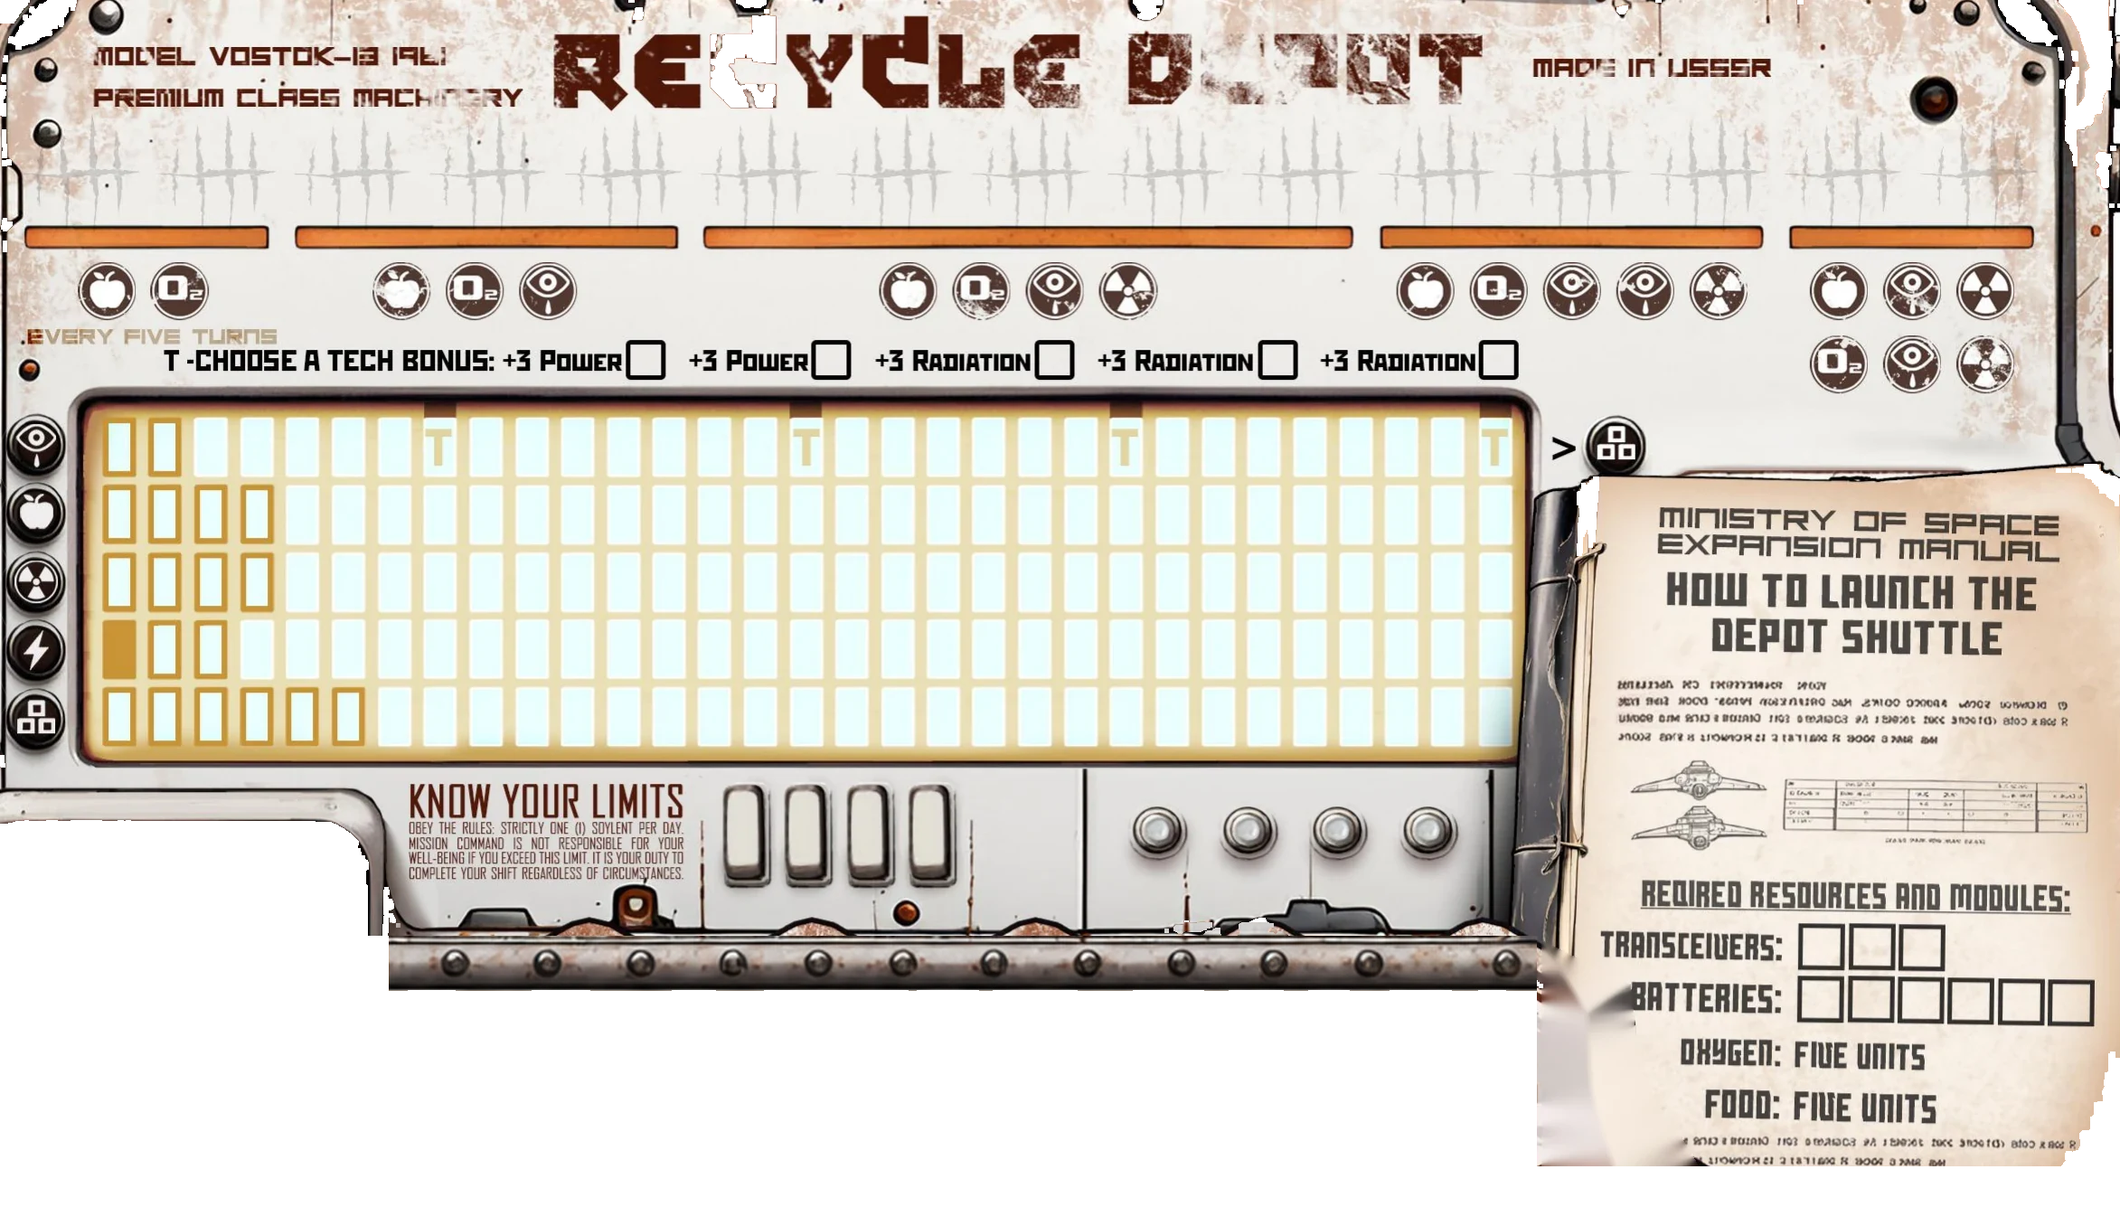
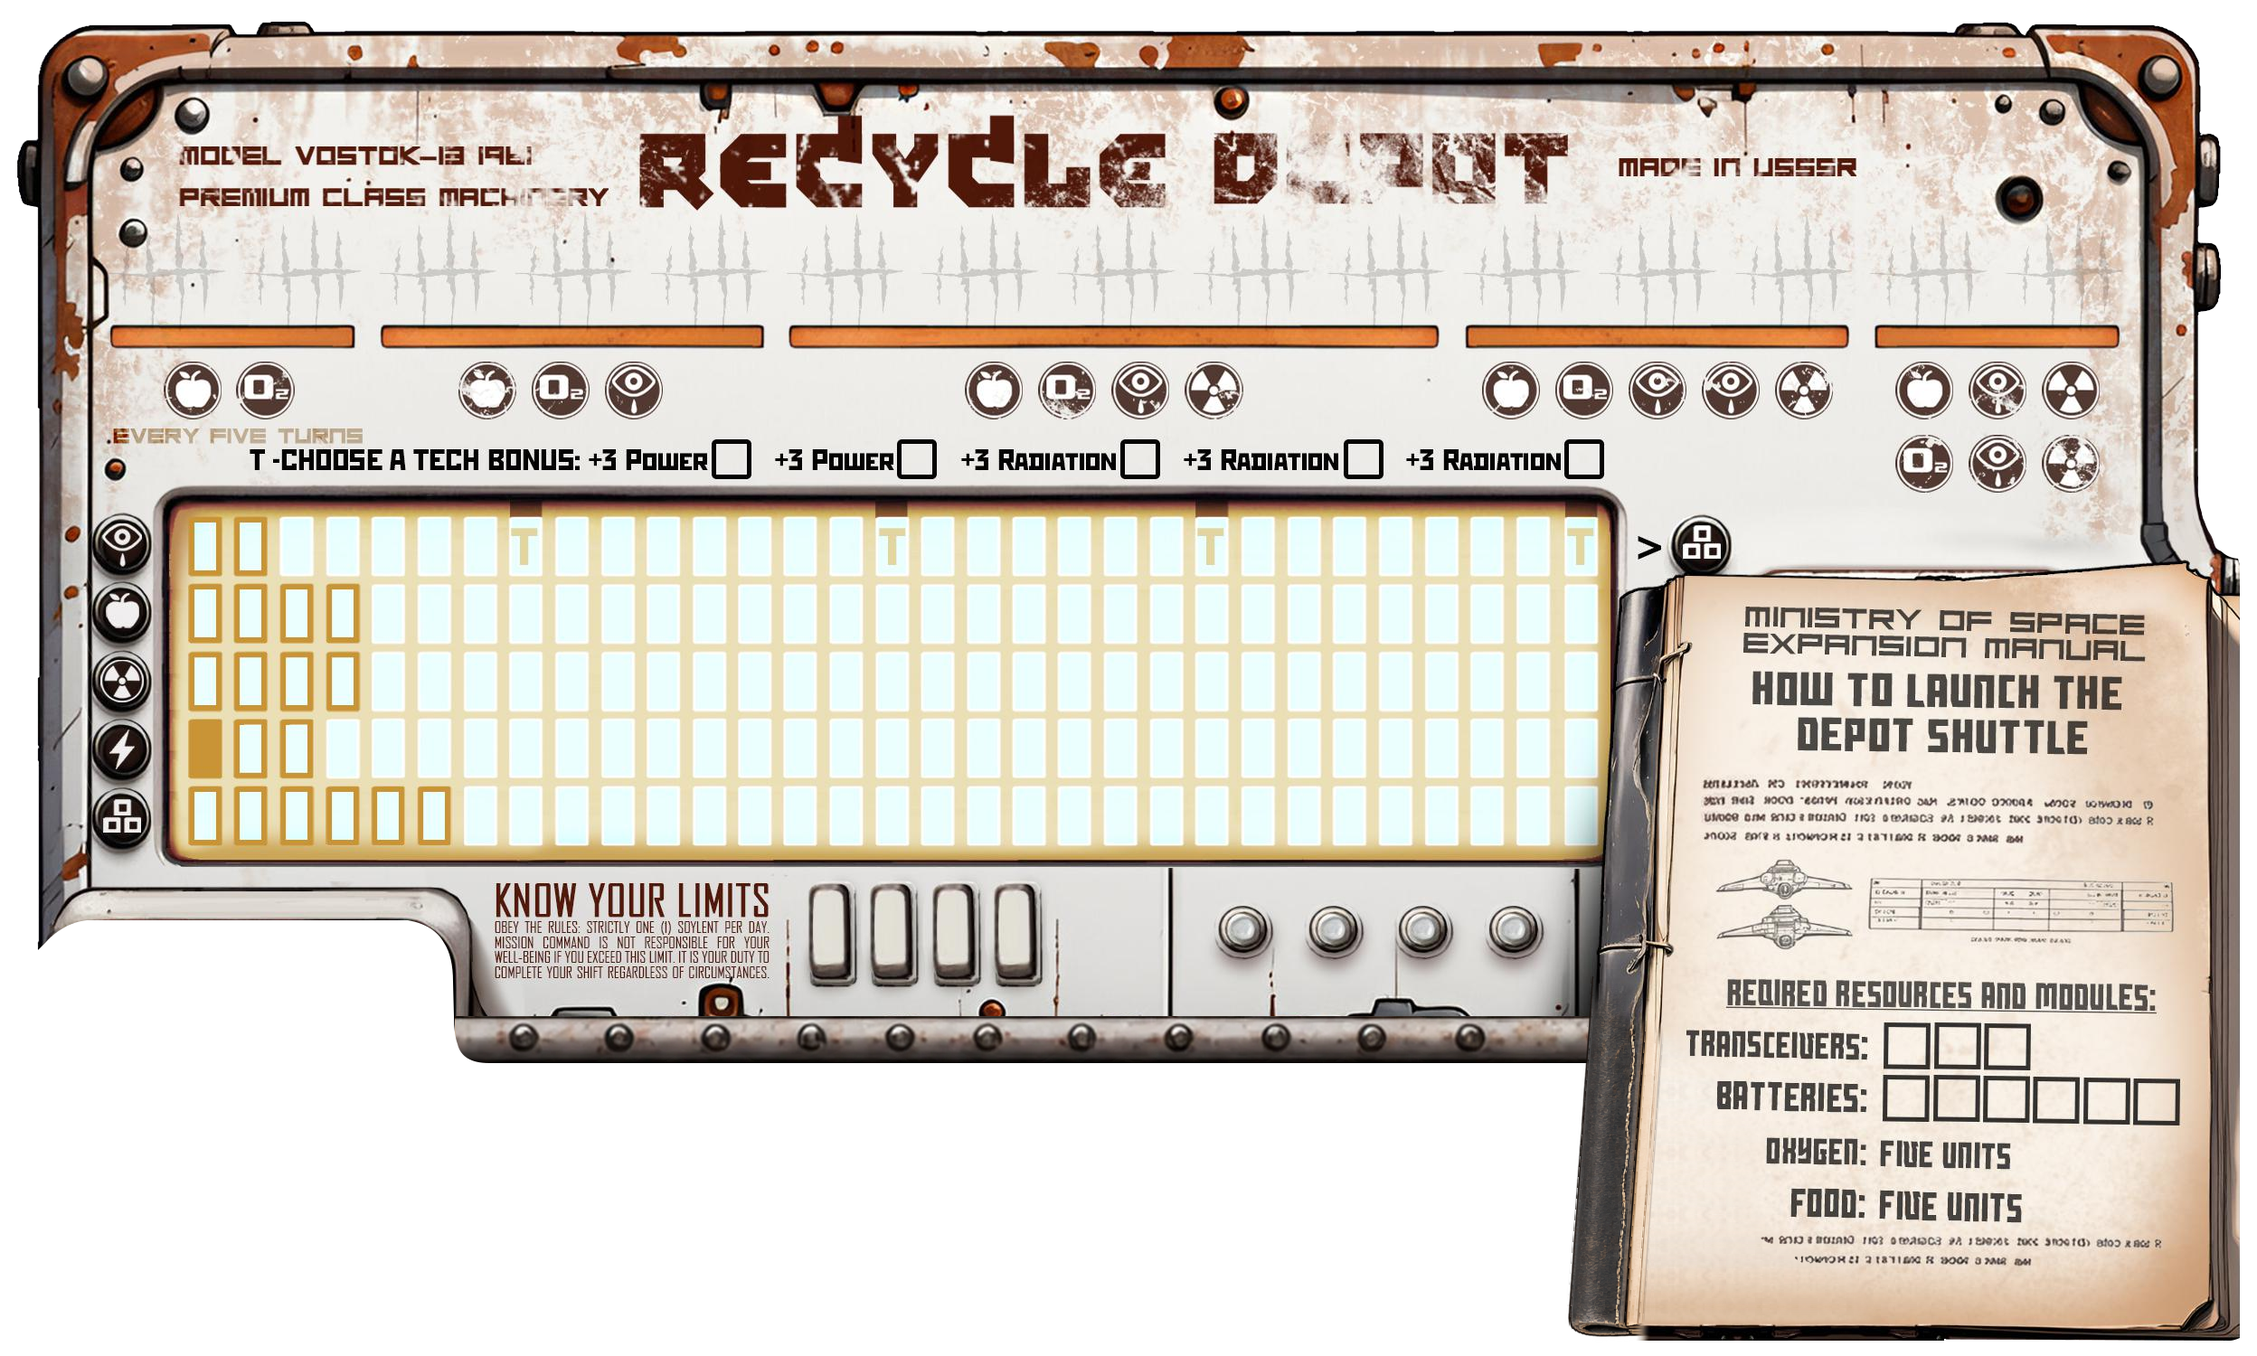
Restore the Recycled Depot frame and launch manual from the print sheet

diff --git a/games/recycled/src/styles.css b/games/recycled/src/styles.css
@@ -1469,13 +1469,27 @@ button.die {
   z-index: 2;
 }
 .modal.depot-zoomed {
+  display: grid;
+  grid-template-rows: auto minmax(0, 1fr);
   max-width: min(96vw, 1500px);
 }
 .modal.depot-zoomed .depot {
+  display: grid;
+  min-height: 0;
   border: none;
   box-shadow: none;
   padding: 0;
   background: none;
+}
+
+.modal.depot-zoomed .depot-art-wrap {
+  display: grid;
+  grid-template-rows: minmax(0, 1fr) auto;
+  min-height: 0;
+}
+.modal.depot-zoomed .depot-art {
+  min-height: 0;
+  max-height: 100%;
 }
 
 /* The playtester's strip in the top bar: see src/ui/playtest.ts. Loud on purpose - a playtest and

diff --git a/games/recycled/tools/close_depot.py b/games/recycled/tools/close_depot.py
@@ -1,145 +1,47 @@
-"""Give the Depot console the bottom edge the printed sheet never shows.
+"""Rebuild the registered Planet 1 Depot from its original embedded print image.
 
-    python3 tools/close_depot.py           # add the lip, if it isn't there yet
-    python3 tools/close_depot.py --force   # ask the model again (deletes the cached fill)
-
-On Sheet 1 the hex board is printed over the console's lower body, so there is no bottom edge to
-extract: `extract_art.py` cuts along the board and the console ends in a flat slice. The Game
-Director asked for exactly this to be filled in - "you could just ask OpenAI to fill in the parts
-covered with hexes".
-
-**This is the one reconstructed part of the Depot.** The model draws only inside a band below the
-printed console; every pixel the publisher printed is composited back over the result and the run
-refuses to write if one of them moved. Nothing here invents a control, a number or a word: the band
-is plain lower casing.
-
-Run it after `extract_art.py`, which overwrites `depot.webp` with the sliced version. The model's
-fill is cached, so a re-run costs nothing.
-
-Needs Pillow, numpy and an OpenAI key in ~/.openai-token. The call goes through scripts/art.mjs.
+Run close_depot.py [SHEET1_PLANET1.pdf]. The outline, repaired manual corner and
+lower rail are the approved art masters. Rebuilding needs Pillow and Poppler's
+pdfimages. All positions are in native Sheet 1 pixels.
 """
 from __future__ import annotations
 
-import subprocess
-import sys
-import tempfile
+import argparse
+import json
 from pathlib import Path
+import subprocess
+import tempfile
 
-import numpy as np
 from PIL import Image
 
-GAME = Path(__file__).resolve().parent.parent
-ART = GAME / 'src/assets/art'
-CLIENT = GAME.parent.parent / 'scripts/art.mjs'
-CACHE = GAME.parent.parent / '.screens/art/depot-lip.png'
-
-# The console's own width, and the band of the image it may be extended into. The console is cut
-# off at about y=1034 and `depot.webp` is 1335 tall, so the room is already in the frame.
-SPLIT_X = 1700
-BAND_TOP, BAND_BOTTOM = 1020, 1165
-# Left of this the console has its own printed bottom corner, higher up, and the sheet continues
-# into a control panel that is not part of this crop. The lip starts where the flat cut starts.
-BAND_LEFT = 430
-# The edit is sent square so the model returns the same framing, and at the API's own size.
-SIDE = 1024
-
-PROMPT = (
-    'This is a retro Soviet-style control console, photographed flat, with its lower edge missing: '
-    'the image simply stops part-way down and everything below is transparent. '
-    'Draw the bottom of the console, and nothing else. Continue the panels, seams and rusted '
-    'off-white painted metal straight down for a short distance and close them with the console\'s '
-    'own bottom lip - a darker rolled edge with a line of rivets, in the same lighting, the same '
-    'palette and the same hand-painted comic style, with the same wear and rust streaks. '
-    'Do not change one pixel of the console above. Do not add dials, switches, screens, labels, '
-    'legs, shadows or any text or numbers whatsoever. Everything outside the console stays fully '
-    'transparent.'
-)
+GAME = Path(__file__).resolve().parents[1]
+MASTERS = GAME / "tools/depot"
+DEFAULT_SHEET = GAME.parents[1] / "sources/recycled/EN A4 Sheet1 Planet1-compressed.pdf"
+REPAIR_ORIGIN = (503, 1080)
 
 
-def already_closed(alpha: np.ndarray) -> bool:
-    """A lip has been added if the console's left half reaches below the printed cut."""
-    return bool(alpha[BAND_TOP + 30 : BAND_BOTTOM, :SPLIT_X].any())
+def restore_depot(pdf: Path, output: Path) -> None:
+    with tempfile.TemporaryDirectory() as folder:
+        prefix = Path(folder) / "sheet"
+        subprocess.run(["pdfimages", "-f", "1", "-l", "1", "-j", str(pdf), str(prefix)], check=True)
+        with Image.open(prefix.with_name("sheet-000.jpg")) as page:
+            if page.size != (2480, 3508):
+                raise ValueError(f"Expected a 2480 × 3508 Planet 1 sheet, got {page.size}")
+            with Image.open(MASTERS / "outline.png") as outline:
+                image = page.convert("RGB").crop((0, 0, *outline.size))
+                with Image.open(MASTERS / "lower-repair.webp") as patch:
+                    patch = patch.convert("RGBA")
+                    image.paste(patch, REPAIR_ORIGIN, patch.getchannel("A"))
+                image.putalpha(outline.convert("L"))
+    output.mkdir(parents=True, exist_ok=True)
+    image.save(output / "depot.webp", lossless=True, method=6)
+    geometry = dict(x0=0, y0=0, width=image.width, height=image.height)
+    (output / "depot.json").write_text(json.dumps(geometry) + "\n")
 
 
-def ask(src: Path, mask: Path, out: Path) -> subprocess.CompletedProcess:
-    return subprocess.run(
-        ['node', str(CLIENT), 'edit', '--quality', 'high', '--size', f'{SIDE}x{SIDE}',
-         '--background', 'transparent', '--image', str(src), '--mask', str(mask),
-         '--out', str(out), '--prompt', PROMPT],
-        capture_output=True, text=True,
-    )
-
-
-def main() -> None:
-    force = '--force' in sys.argv
-    depot = Image.open(ART / 'depot.webp').convert('RGBA')
-    arr = np.array(depot)
-    if already_closed(arr[:, :, 3] > 10) and not force:
-        print('depot.webp already has its lower edge; --force to ask again')
-        return
-    if force:
-        CACHE.unlink(missing_ok=True)
-
-    w, h = depot.size
-    # Square the image with transparency so the edit comes back in the same framing, then work at
-    # the API's size. Only the band is ever taken from what comes back.
-    square = Image.new('RGBA', (w, w), (0, 0, 0, 0))
-    square.paste(depot, (0, 0))
-    k = SIDE / w
-
-    CACHE.parent.mkdir(parents=True, exist_ok=True)
-    if not CACHE.exists():
-        with tempfile.TemporaryDirectory() as tmp:
-            src = Path(tmp) / 'depot-in.png'
-            square.resize((SIDE, SIDE), Image.LANCZOS).save(src)
-            # The API edits where the mask is transparent; everything else is out of reach.
-            mask = Image.new('RGBA', (SIDE, SIDE), (255, 255, 255, 255))
-            band = Image.new('RGBA', (SIDE, round((BAND_BOTTOM - BAND_TOP) * k)), (0, 0, 0, 0))
-            mask.paste(band, (0, round(BAND_TOP * k)))
-            mpath = Path(tmp) / 'depot-mask.png'
-            mask.save(mpath)
-            run = ask(src, mpath, CACHE)
-            if run.returncode != 0 or not CACHE.exists():
-                print(f'FAILED - {(run.stderr or run.stdout).strip().splitlines()[-1][:120]}')
-                sys.exit(1)
-
-    got = Image.open(CACHE).convert('RGBA').resize((w, w), Image.LANCZOS).crop((0, 0, w, h))
-    fill = np.array(got)
-
-    # Take the model's pixels only inside the band, only left of the note, and only where the
-    # publisher printed nothing. Everything else is the original, untouched by construction.
-    region = np.zeros(arr.shape[:2], bool)
-    region[BAND_TOP:BAND_BOTTOM, BAND_LEFT:SPLIT_X] = True
-    usable = region & (arr[:, :, 3] <= 10) & (fill[:, :, 3] > 140)
-    out = arr.copy()
-    out[usable] = fill[usable]
-
-    moved = int(((np.abs(out.astype(int) - arr.astype(int)).sum(axis=2) > 0) & ~usable).sum())
-    if moved:
-        print(f'REFUSED - {moved} publisher pixels moved outside the band')
-        sys.exit(1)
-    added = int(usable.sum())
-    if not 20_000 < added < 320_000:
-        print(f'SUSPECT - the fill covers {added} px; not written, look at {CACHE}')
-        sys.exit(1)
-    # A lip has to hang off the console, not float under it: in most columns the first filled
-    # pixel is directly below the last printed one.
-    printed = arr[:, :, 3] > 10
-    gaps = []
-    for x in range(BAND_LEFT, SPLIT_X):
-        above = np.where(printed[:BAND_BOTTOM, x])[0]
-        below = np.where(usable[:, x])[0]
-        if len(above) and len(below):
-            gaps.append(below.min() - above.max() - 1)
-    seam = float(np.median(gaps)) if len(gaps) > 800 else 1e9
-    if seam > 3:
-        print(f'SUSPECT - the fill hangs {seam:.0f}px clear of the console in half its columns; not written')
-        sys.exit(1)
-
-    Image.fromarray(out).save(ART / 'depot.webp', 'WEBP', quality=88, method=6)
-    size = (ART / 'depot.webp').stat().st_size // 1024
-    print(f'depot.webp: lower edge reconstructed, {added} px added, seam {seam:.0f}px, {size} KB')
-
-
-if __name__ == '__main__':
-    main()
+if __name__ == "__main__":
+    parser = argparse.ArgumentParser(description=__doc__)
+    parser.add_argument("sheet", nargs="?", type=Path, default=DEFAULT_SHEET)
+    parser.add_argument("--force", action="store_true", help=argparse.SUPPRESS)
+    options = parser.parse_args()
+    restore_depot(options.sheet, GAME / "src/assets/art")

diff --git a/games/recycled/tools/extract_art.py b/games/recycled/tools/extract_art.py
@@ -4,7 +4,7 @@
 Usage:
     python3 tools/extract_art.py SHEET1_PLANET1.pdf SHEET2.pdf RULEBOOK_PAGE1.pdf
 
-Needs `pdftoppm` (poppler), Pillow, numpy and opencv-python-headless. Coordinates below are pixels at 300 dpi on the
+Needs `pdftoppm` and `pdfimages` (Poppler), Pillow, numpy and opencv-python-headless. Coordinates below are pixels at 300 dpi on the
 A4 sheets (2480 x 3508).
 """
 
@@ -20,6 +20,8 @@ from pathlib import Path
 import cv2
 import numpy as np
 from PIL import Image, ImageDraw
+
+from close_depot import restore_depot
 
 OUT = Path(__file__).resolve().parent.parent / 'src' / 'assets' / 'art'
 
@@ -174,54 +176,6 @@ def board(sheet1: Image.Image) -> None:
     save(out, 'board', width)
 
 
-# Depot machine + launch manual from the top of Sheet 1, as one L-shaped image.
-DEPOT_BOX = (95, 110, 2440, 1445)
-
-
-def depot_alpha(arr: np.ndarray) -> np.ndarray:
-    """The console's own outline, not a rectangle through it.
-
-    The sheet's Mars backdrop is a saturated orange-red while the console is desaturated metal and
-    the manual is pale paper, so flooding that backdrop inwards from the border traces the real
-    silhouette - rounded corners, side pipes and all. The old straight-edged alpha sliced the
-    machine across its lower body, losing the switch bank and the dials.
-
-    The crop runs past the console into the hex board, so the machine and the note get separate
-    lower limits: the note hangs below the machine, and one flat cut could not keep both.
-    """
-    h, w = arr.shape[:2]
-    hsv = cv2.cvtColor(arr, cv2.COLOR_RGB2HSV).astype(int)
-    hue, sat = hsv[:, :, 0], hsv[:, :, 1]
-    passable = (((hue < 25) | (hue > 170)) & (sat > 70)).astype(np.uint8)
-    flood = np.zeros((h + 2, w + 2), np.uint8)
-    border = [(x, y) for x in range(w) for y in (0, h - 1)] + [(x, y) for y in range(h) for x in (0, w - 1)]
-    for x, y in border:
-        if passable[y, x] == 1:
-            cv2.floodFill(passable, flood, (x, y), 2)
-    kept = cv2.morphologyEx((passable != 2).astype(np.uint8), cv2.MORPH_CLOSE, np.ones((5, 5), np.uint8), 2).astype(bool)
-
-    SPLIT_X, MACHINE_BOTTOM, NOTE_BOTTOM = 1700, 1035, 1290
-    rows = np.arange(h)[:, None]
-    kept &= rows < np.where(np.arange(w)[None, :] < SPLIT_X, MACHINE_BOTTOM, NOTE_BOTTOM)
-
-    n, lab, stats, _ = cv2.connectedComponentsWithStats(kept.astype(np.uint8), 8)
-    return np.isin(lab, [i for i in range(1, n) if stats[i, cv2.CC_STAT_AREA] > 8000])
-
-
-def depot(sheet1: Image.Image) -> None:
-    x0, y0, x1, y1 = DEPOT_BOX
-    arr = np.array(sheet1.crop(DEPOT_BOX))
-    # The map board pokes into the manual's lower-left corner: paint it out with paper.
-    m = np.zeros(arr.shape[:2], np.uint8)
-    corner = [(1800, 1150), (1898, 1198), (1908, 1300), (1962, 1380), (2008, 1460), (1800, 1460)]
-    cv2.fillPoly(m, [np.array([(x - x0, y - y0) for x, y in corner], np.int32)], 255)
-    arr = cv2.inpaint(arr, m, 9, cv2.INPAINT_TELEA)
-    img = Image.fromarray(arr)
-    img.putalpha(Image.fromarray((depot_alpha(arr) * 255).astype(np.uint8)))
-    save(img, 'depot', None, 88)  # native: the manual's small print needs every pixel the scan has
-    (OUT / 'depot.json').write_text(json.dumps({'x0': x0, 'y0': y0, 'width': x1 - x0, 'height': y1 - y0}) + '\n')
-
-
 CARD_X = [120, 690, 1250, 1810]
 CARD_Y = [1220, 1970, 2710]
 CARD_W, CARD_H = 530, 705
@@ -313,7 +267,7 @@ def main() -> None:
         sheet2 = render(sys.argv[2], tmp, 'sheet2')
         page1 = render(sys.argv[3], tmp, 'page1')
     board(sheet1)
-    depot(sheet1)
+    restore_depot(Path(sys.argv[1]), OUT)
     cards(sheet2)
     icons(sheet2)
     header(page1)

diff --git a/.claude/rules/art.md b/.claude/rules/art.md
@@ -74,6 +74,26 @@ detail has been reconstructed** rather than extracted.
 - **Never let a model write text.** Rebuild a title or a cost from verified game data and composite
   it, or keep the original pixels. Invented rules on a game component are worse than blur.
 
+## Cutouts that carry printed game information
+
+Before cutting a board, dashboard or player aid from a sheet, mark three things on a native-size
+crop: surviving print, exterior background, and parts hidden by another component. Check sibling
+sheets and rulebook illustrations for the hidden parts. Keep the sheet-space origin alongside the
+export so the game's overlays still point to the same cells.
+
+Trace transparency along the exterior. A light letter, a worn patch of enamel and the white of a
+checkbox can all match the page background. Compare both RGB and alpha in the surviving print
+against the original. For an obscured edge, reuse matching material from the sheet or ask
+`art.mjs edit` for a donor. Composite just the missing paper, metal or binding. Keep printed text,
+icons and game geometry from the original.
+
+Show the vision reviewer the native original, the exported cutout on light and dark backgrounds,
+and the largest view players can actually open. Ask it to point to holes, squared-off curves,
+foreign outlines, blurred lettering and misplaced marks. Check its findings against the original.
+Exercise a marked state in the real UI. Run the regular extractor again and compare the decoded
+output and registration to the approved version. Keep the outline and repair layer with the
+extractor so a fresh export gives the same result.
+
 ## Close the loop before you show me
 
 **Review blind.** Render one legal interaction, capture it at both sizes, and ask the model what

diff --git a/games/recycled/art/decisions.md b/games/recycled/art/decisions.md
@@ -4,6 +4,12 @@ Newest first. One entry per decision that would otherwise have to be rediscovere
 what came back, what was accepted or rejected, and why. Reconstructed from commit messages for
 everything before 2026-11-27.
 
+## 2026-11-27 · Restore the Depot frame and the launch manual
+
+The previous crop clipped the upper metal frame and the bottom of the book. Its transparency mask also reached into the Depot title. The map covers the lower-left corner of the manual on Sheet 1, so the former inpaint blurred the binding into the Batteries label.
+
+The new outline follows the exterior. The original page supplies the title, grid, day tracks, instructions and checkboxes at their native sheet coordinates. An image edit supplied a donor for the hidden binding and paper. Its lettering was discarded. The retained riveted lip came from the preceding Depot asset. The small repair layer and the outline are in `tools/depot/`; normal extraction now applies both. The display canvas begins at sheet (0, 0) and measures 2496 × 1500.
+
 ## 2026-11-27 · The buildings were never clipped by the sheet, only by our crop
 
 **Game Director, from the iPad:** "The edges can be improved. For some of it you could just ask

diff --git a/games/recycled/CLAUDE.md b/games/recycled/CLAUDE.md
@@ -278,8 +278,8 @@ src/ui/                  REACT UI
 src/assets/art/          extracted webp art + board.json / depot.json geometry
 tools/extract_art.py     cuts art from the PDFs (needs pdftoppm, Pillow, numpy, opencv-python-headless)
 tools/make_cutouts.py    the buildings, matted out of their printed ground; run after extract_art
-tools/close_depot.py     the Depot's reconstructed bottom edge; **run after extract_art**, which
-                         overwrites depot.webp with the version the hex board slices
+tools/close_depot.py     rebuilds the Depot from the native Planet 1 JPEG and tools/depot/ masters.
+                         extract_art calls it directly. Its canvas uses original Sheet 1 coordinates.
 tools/calibrate_grid.py  fits the printed hex grid; numbers go into extract_art.py
 test/engine.test.ts      rules tests, 300 random games, 200 strategy games, exact-wording cases
 test/ui.test.tsx         18 full games through the UI (jsdom), checking the screen after every click
